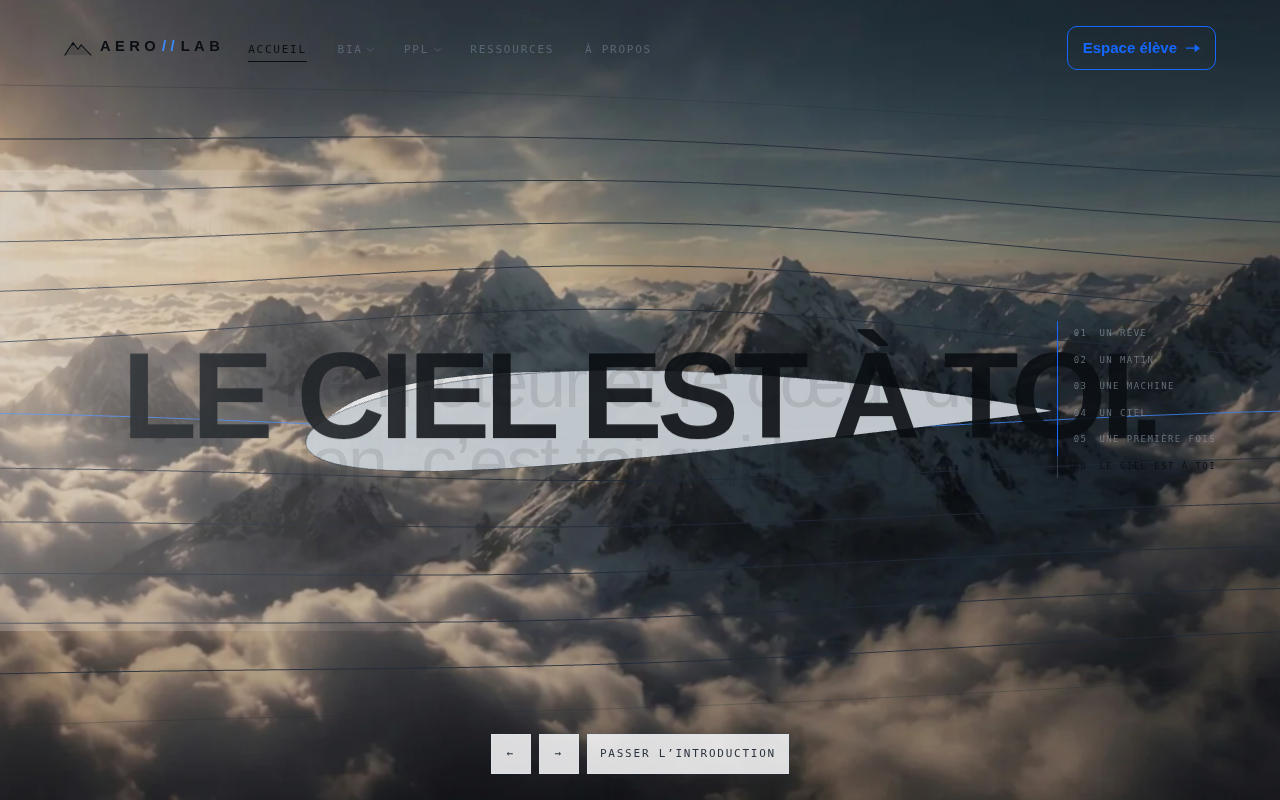
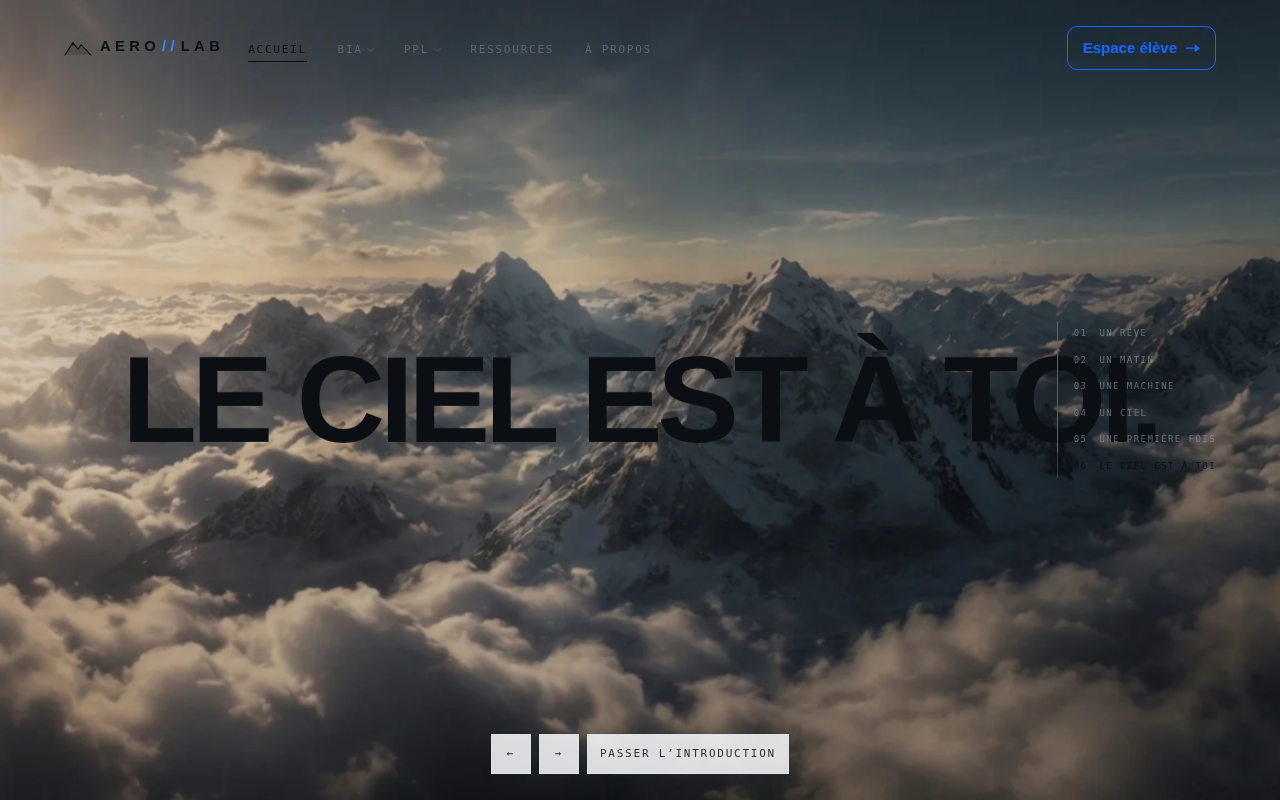
Retire le profil d'aile de l'intro : ce n'était pas l'A350
L'auteur du projet l'a vu avant moi : ce qui traversait le cadre en
scènes 06 et au final n'était pas l'A350 mais un PROFIL D'AILE avec ses
filets d'air. D'où la forme de lentille blanche et les lignes
horizontales que je prenais pour un problème de matériaux.

Le WingSection venait de l'ancienne narration, où la séquence basculait
du fuselage vers l'aile pour amener « il faut comprendre le vol ». En
réécrivant la frise sur les six scènes, j'ai laissé son repère pointer
sur la scène 06 : il était donc révélé de 78 % à 100 %, occupant la
scène 06 ET le final — précisément là où le storyboard veut l'A350 seul,
en orbite libre puis en passage devant le titre.

Le composant reste dans le dépôt : il a sa place dans une page de cours
d'aérodynamique, pas dans l'introduction.

Ce que ça laisse à faire
------------------------
La scène 06 est maintenant propre — la plaque, le titre, rien qui la
parasite. Mais l'A350 n'y vole pas encore : sa fenêtre de mise en scène
ne couvre pas la scène 06. C'est l'orbite libre du storyboard, cent
quatre-vingts degrés autour de l'appareil, qui reste à jouer.

J'avais attribué l'aplatissement de l'appareil à ses matériaux plats.
C'était une explication plausible et fausse : il n'y avait tout
simplement pas d'appareil à cet endroit.

Claude-Session: https://claude.ai/code/session_013GReJsEtWHkfivrVQQhbYc

diff --git a/src/sections/intro/Stage.tsx b/src/sections/intro/Stage.tsx
@@ -4,7 +4,6 @@ import * as THREE from 'three'
 import { Suspense } from 'react'
 import Model, { preloadModels } from '@/three/Model'
 import { restingState, type FlightState } from '@/three/instruments'
-import WingSection from '@/three/WingSection'
 import { CloudField, DustField, GroundPlane } from '@/three/Atmosphere'
 import { P3, skyColor } from '@/three/palette'
 import { scrollDriver } from '@/lib/scroll'
@@ -362,12 +361,15 @@ function Contents({ density, shadows }: { density: number; shadows: boolean }) {
         getSpeed={() => 1}
       />
 
-      <WingSection
-        density={density}
-        position={[0, 0.1, 0]}
-        getReveal={() => window4(p(), INTRO.wing, 0.845, 0.985, 1.0)}
-        getAlpha={() => lerp(2, 8, ramp(p(), 0.85, 0.95))}
-      />
+      {/* PLUS DE PROFIL D'AILE DANS L'INTRO.
+          Il venait de l'ancienne narration, où la séquence basculait du
+          fuselage vers l'aile pour amener « il faut comprendre le vol ». Il
+          était révélé de 78 % à 100 %, donc il occupait la scène 06 et le
+          final — précisément là où le storyboard veut l'A350 seul, en orbite
+          libre puis en passage devant le titre.
+          Résultat : on croyait voir l'A350 alors qu'on regardait une aile.
+          Le composant WingSection reste dans le dépôt : il a sa place dans
+          une page de cours d'aérodynamique, pas dans l'introduction. */}
     </>
   )
 }
